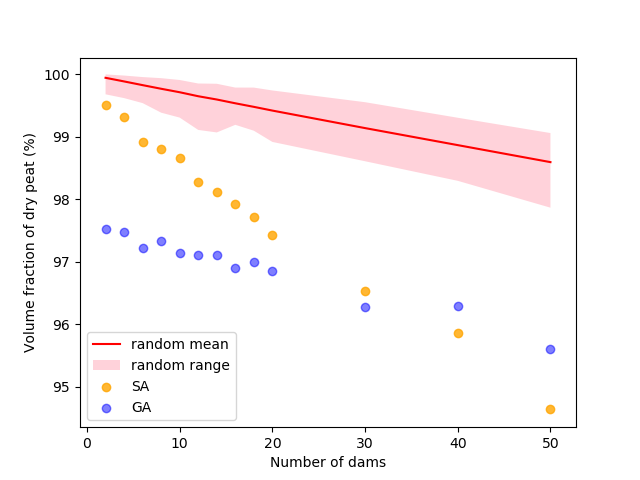
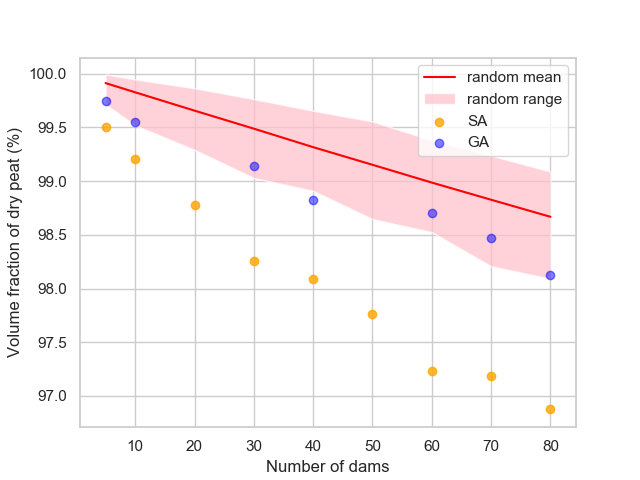
local commits

diff --git a/output/plot.py b/output/plot.py
@@ -20,7 +20,7 @@ fname_mc = r'results_mc_2.txt'
 fname_ga = r'results_ga.txt'
 fname_sa = r'results_sa_2.txt'
 
-colnames = ['i', 'dry_peat_vol', 'ndams', 'niter', 'days', 'day_week', 'month', 'day_month', 'time', 'yr' ]
+colnames = ['i', 'dry_peat_vol', 'ndams', 'niter', 'days', 'day_week', 'month', 'day_month', 'time', 'yr', 'water_changed_canals' ]
 rename_cols_sa = {'i':'dry_peat_vol', 'dry_peat_vol':'ndams', 'ndams':'niter', 'niter':'days', 'days':'day_week', 'day_week':'month', 'month':'day_month', 'day_month':'time', 'time':'yr' }
 colnames_ga = {'dry_peat_vol', 'ndams', 'niter', 'days', 'day_week', 'month', 'day_month', 'time', 'yr', 'blocks', 'a', 'b', 'c'}
 rename_cols_ga = {'day_month':'dry_peat_vol', 'niter':'ndams', 'c': 'niter', 'b':'days', 'blocks':'day_week', 'day_week':'month', 'days':'day_month', 'month':'time', 'ndams':'yr', 'a': 'b1', 'time':'b2', 'yr':'b3', 'dry_peat_vol':'b4'}
@@ -33,11 +33,14 @@ sa_df = pd.read_csv(fname_sa, delim_whitespace=True, header=None, names=colnames
  Get info out
 """
 
-dry_peat_vol_no_dams = 40191.730578848255 # normalization value
+#dry_peat_vol_no_dams = 40191.730578848255 # normalization value OLD
+dry_peat_vol_no_dams = 7650.4955258016635 # Normalization Nov 29
 
 
 mc_df = mc_df[mc_df.i != 0]
-number_dams = (2,4,6,8,10,12,14,16,18,20, 30, 40, 50)
+number_dams = (5,10,20, 30, 40, 50, 60, 70, 80)
+
+mc_df = mc_df[mc_df['niter'] == 2000]
 mean_mc = [mc_df[mc_df.ndams == i]['dry_peat_vol'].mean()/dry_peat_vol_no_dams*100 for i in number_dams]
 max_mc = [mc_df[mc_df.ndams == i]['dry_peat_vol'].max()/dry_peat_vol_no_dams*100 for i in number_dams]
 min_mc = [mc_df[mc_df.ndams == i]['dry_peat_vol'].min()/dry_peat_vol_no_dams*100 for i in number_dams]
@@ -52,8 +55,12 @@ ga_df.dry_peat_vol = ga_df.dry_peat_vol/dry_peat_vol_no_dams*100
 sa_plot = sa_df.loc[sa_df['ndams'].isin(number_dams)]
 ga_plot = ga_df.loc[ga_df['ndams'].isin(number_dams)]
 
+
+sa_plot = sa_plot[sa_plot['day_month']==30]
+ga_plot = ga_plot[ga_plot['day_month']==30]
+
 """
- Plot
+ Plot V_dry_peat vs ndams
 """
 
 fig, ax = plt.subplots(1)
@@ -76,5 +83,25 @@ sns.set(style="whitegrid", palette="pastel", color_codes=True)
 sns.violinplot(x=mc_df.ndams, y=mc_df.dry_peat_vol/dry_peat_vol_no_dams,  inner="quart")
 
 sns.despine(left=True)
+
+"""
+ Plot V_dry_peat vs water raised in canals
+"""
+plt.figure()
+plt.title('All n_dams')
+plt.xlabel('water changed canals (m)')
+plt.ylabel('dry peat vol (m^3)')
+plt.scatter(x = -mc_df.water_changed_canals.to_numpy(), y = mc_df.dry_peat_vol.to_numpy(), s=0.5)
+
+plt.figure()
+plt.title('Separated by n_dams')
+plt.xlabel('water changed canals (m)')
+plt.ylabel('dry peat vol (m^3)')
+for ndams in number_dams:
+    by_dams = mc_df[mc_df.ndams == ndams]
+    plt.scatter(x = -by_dams.water_changed_canals.to_numpy(), y = by_dams.dry_peat_vol.to_numpy(), s=2.0, label=str(ndams))
+plt.legend()
+
+
 
 plt.show()

diff --git a/main.py b/main.py
@@ -27,7 +27,7 @@ Parse command-line arguments
 parser = argparse.ArgumentParser(description='Run hydro without any optimization.')
 
 parser.add_argument('-d','--days', default=3, help='(int) Number of outermost iterations of the fipy solver, be it steadystate or transient. Default=10.', type=int)
-parser.add_argument('-b','--nblocks', default=10, help='(int) Number of blocks to locate. Default=5.', type=int)
+parser.add_argument('-b','--nblocks', default=0, help='(int) Number of blocks to locate. Default=5.', type=int)
 parser.add_argument('-n','--niter', default=1, help='(int) Number of repetitions of the whole computation. Default=10', type=int)
 args = parser.parse_args()
 
@@ -55,8 +55,8 @@ can_rst_fn = preprocessed_datafolder + r"/canals_clip.tif"
 #land_use_rst_fn = preprocessed_datafolder + r"/Landcover2017_clip.tif" # Not used
 peat_depth_rst_fn = preprocessed_datafolder + r"/Peattypedepth_clip.tif" # peat depth, peat type in the same raster
 #params_fn = r"/home/inaki/GitHub/dd_winrock/data/params.xlsx" # Luke
-#params_fn = r"/home/txart/Programming/GitHub/dd_winrock/data/params.xlsx" # home
-params_fn = r"/homeappl/home/urzainqu/dd_winrock/data/params.xlsx" # CSC
+params_fn = r"/home/txart/Programming/GitHub/dd_winrock/data/params.xlsx" # home
+#params_fn = r"/homeappl/home/urzainqu/dd_winrock/data/params.xlsx" # CSC
 
 
 if 'CNM' and 'cr' and 'c_to_r_list' not in globals():

diff --git a/ga_try_2.py b/ga_try_2.py
@@ -152,7 +152,8 @@ def evalDryPeatVol(individual): # this should be returning dry peat volume in a 
 toolbox.register("evaluate", evalDryPeatVol)
 toolbox.register("mate", tools.cxOnePoint) # single point crossover
 toolbox.register("mutate", tools.mutUniformInt, low=1, up=n_canals-1, indpb=0.1) # replaces individual's attribute with random int
-toolbox.register("select", tools.selBest) # k best are selected
+toolbox.register("select", tools.selBest, k=5) # k best are selected
+#toolbox.register("select", tools.selTournament, k=5, tournsize=5) # select best from random groups of size tournsize, k times. 
 
 if __name__ == "__main__":
 #    random.seed(64)
